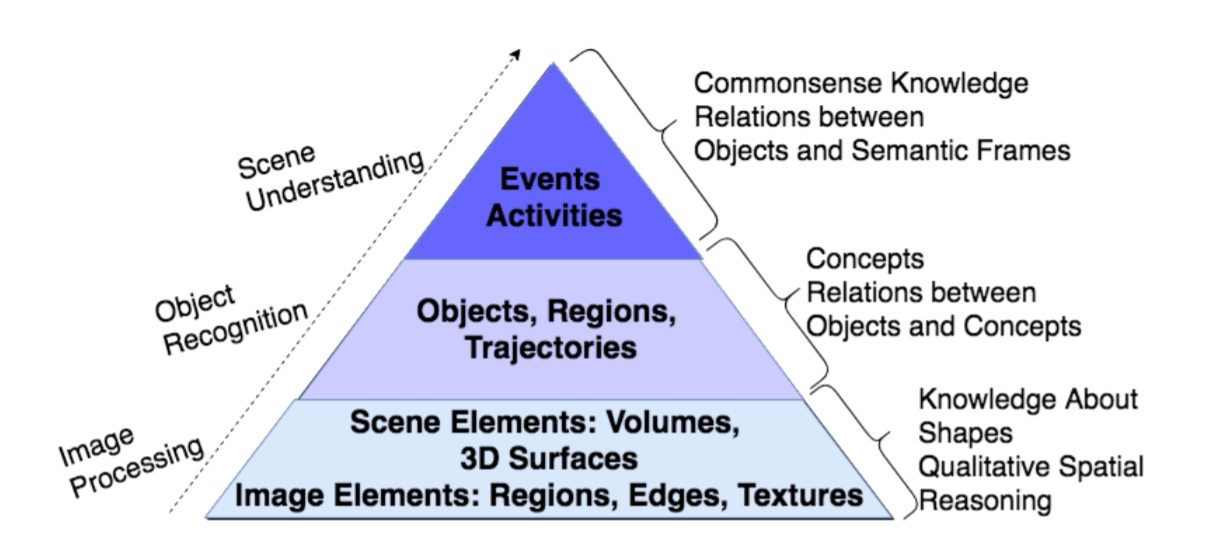
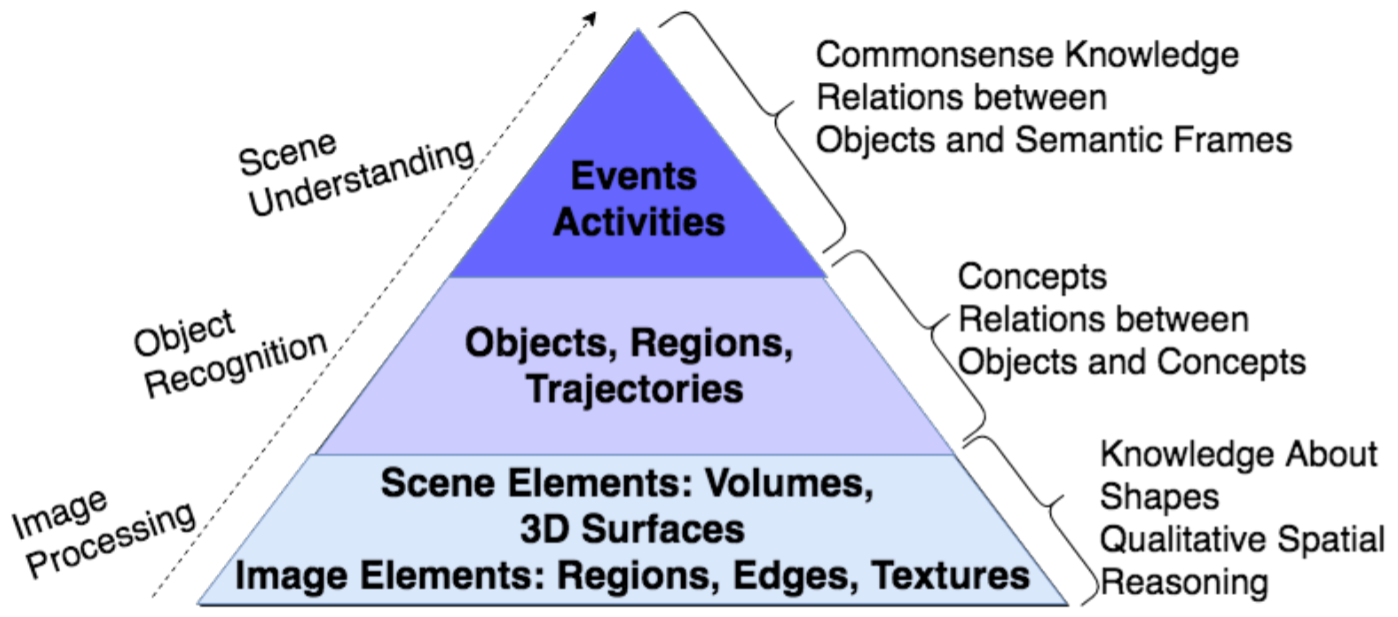
update img

Changed region(s): [[0.0, 0.0, 1.0, 0.9927]]

diff --git a/index.html b/index.html
@@ -111,7 +111,7 @@
 
                 <div class="paperBlock">
                     <span class="paperTitle">Cognition: Image and multi-modal document Understanding and Visual QA</span><br/>
-                    <a href=""><img src="images/pubpics/img.png" /></a>
+                    <a href=""><img src="images/pubpics/img.png" width="50" /></a>
                     <br>
                     <span class="authorList">
                       
